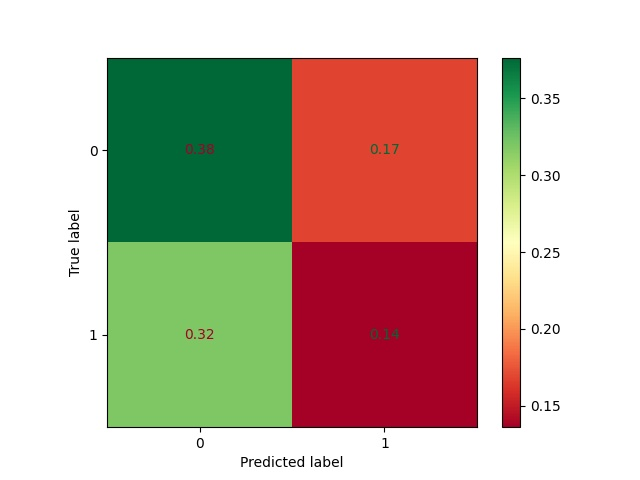
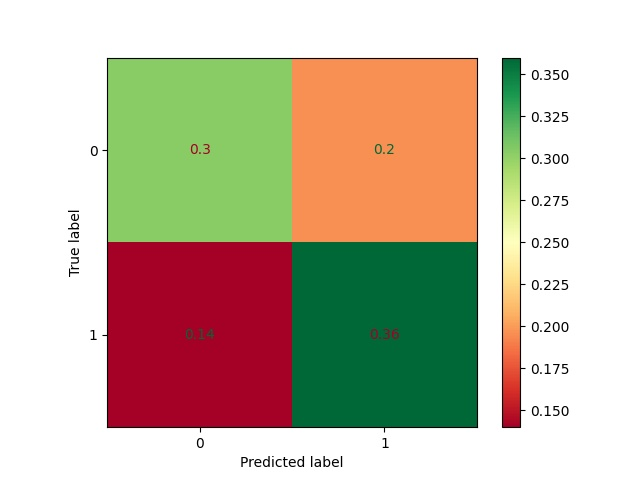
Report commit

diff --git a/detect_resampling.py b/detect_resampling.py
@@ -10,16 +10,28 @@ from sklearn.metrics import confusion_matrix, ConfusionMatrixDisplay
 
 start_time = time.time()
 
-def fake_image_detection(show_point_plot, show_bar_chart, fake_threshold, show_truth_table, produce_half_sample, num_of_images):
-    # how many images to process
-    casia_folder_path = r"C:\Users\chamo\Documents\Physics\Projects\Imaging and Data Processing\Automatic Fake Image Detection"
-    defacto_folder_path = r"C:\Users\chamo\Documents\Physics\Projects\Imaging and Data Processing\Automatic Fake Image Detection\copymove_img\img"
+def fake_image_detection(show_point_plot, show_bar_chart, fake_threshold, show_truth_table, produce_half_sample, num_of_images, casia_folder_path, defacto_folder_path):
+    """ Calculates the probabilty of each image in the CASIA v2 real vs cropped database
+    Args:
+        show_point_plot (Boolan): True or False to show which images where correct or wrong
+        show_bar_chart (Boolan): True or False to show bar chart of how many images were correct or wrong
+        fake_threshold (_type_): _description_
+        show_truth_table (Boolan): True or False to show where images lie on truth table
+        produce_half_sample (Boolan): True or False to tell program to get a random or equal sample of real or fake images
+        num_of_images (int): Number of images per iteration
+        casia_folder_path (str): Absolute path to CASIA folder path
+        defacto_folder_path (str): Absolute path to defacto folder path
+
+    Returns:
+        _type_: _description_
+    """
 
     # max num. of images for real + crop is 14982
     # max num. of images for real + fake is 11429
     # max num. of images for real + copy-move is 13749
     # use 300 images for testing
 
+    # how many images to process
     #num_of_images = 11429
     casia_2_real = glob.glob(casia_folder_path+'\CASIA2\Au\Au*')
     casia_2_fake = glob.glob(casia_folder_path+'\CASIA2\Tp\Tp*')
@@ -44,7 +56,7 @@ def fake_image_detection(show_point_plot, show_bar_chart, fake_threshold, show_t
     good_images = np.array([])
     bad_images = np.array([])
 
-    for i in range(num_of_images - 1):
+    for i in range(num_of_images):
         # go through all images 1 by 1
         if produce_half_sample == True:
             random_i = i
@@ -59,7 +71,7 @@ def fake_image_detection(show_point_plot, show_bar_chart, fake_threshold, show_t
         # fake_threshold of 0.2 was too high to detect fake images (accuracy = 30% for just fake images)
         # make a plot of different thresholds and accurary of program
 
-        fakeness_end_result = detect_resampling(suspect_image=temp_image, show_images=False, debugging=False, fake_threshold=fake_threshold)
+        fakeness_end_result = detect_resampling(suspect_image=temp_image, show_images=False, fake_threshold=fake_threshold)
 
         if '\CASIA2\Au\Au' in str(temp_image):
             fake_image = False
@@ -190,12 +202,14 @@ def fake_image_detection(show_point_plot, show_bar_chart, fake_threshold, show_t
 # fake_threshold = 0.2 is the global maximum
 # confidence = 0.5 is the global maximum
 
-#fake_image_detection(show_point_plot=False, show_bar_chart=True, fake_threshold=0.2, show_truth_table=True, produce_half_sample=False,
-#num_of_images=13749)
 
 # for a single image anaylsis
 #detect_resampling(suspect_image=casia_2_fake[10], show_images=True, debugging=False)
 #detect_resampling(suspect_image=defacto[10], show_images=True, debugging=False)
+
+# for a mutiple image anaylsis
+#fake_image_detection(show_point_plot=False, show_bar_chart=True, fake_threshold=0.2, show_truth_table=True, produce_half_sample=False,
+#num_of_images=13749)
 
 # measure time taken to execute code (uni interpreter is usually faster than uni_2_1)
 end_time = time.time()

diff --git a/test_resampling_accuracy.py b/test_resampling_accuracy.py
@@ -4,37 +4,39 @@ import time
 
 from detect_resampling import fake_image_detection
 
-#fake_threshold = np.arange(0.15, 0.3, 0.005)
-fake_threshold = np.linspace(0.18, 0.23, 200)
-#fake_threshold = 0.2
+def test_accuracy_against_k(min_k, max_k, casia_folder_path, defacto_folder_path):
+    #fake_threshold = np.arange(0.15, 0.3, 0.005)
+    fake_threshold = np.linspace(min_k, max_k, 200)
+    #fake_threshold = 0.2
 
-accuracy = np.array([])
+    accuracy = np.array([])
 
-# test fake_image_detection for varying k values
-for i in range(0, np.size(fake_threshold)):
-    temp_accuracy = fake_image_detection(fake_threshold=fake_threshold[i], num_of_images=300, show_bar_chart=False, show_point_plot=False, show_truth_table=False, produce_half_sample=True)
-    # produce_half_sample = False here because we want to test varying fake_threshold against the same images
-    # accuracy plot can have sharp edges if num_of_images isn't high enough
+    # test fake_image_detection for varying k values
+    for i in range(0, np.size(fake_threshold)):
+        temp_accuracy = fake_image_detection(fake_threshold=fake_threshold[i], num_of_images=300, show_bar_chart=False, show_point_plot=False, show_truth_table=False, produce_half_sample=True, casia_folder_path=casia_folder_path, defacto_folder_path=defacto_folder_path)
+        # produce_half_sample = False here because we want to test varying fake_threshold against the same images
+        # accuracy plot can have sharp edges if num_of_images isn't high enough
 
-    # for 200 k values and 300 images per iteration, program runs through 60,000 images
-    accuracy = np.append(accuracy, temp_accuracy)
-    print('Fake Threshold (k) = {fake_threshold:.3f} done'.format(fake_threshold=fake_threshold[i]))
+        # for 200 k values and 300 images per iteration, program runs through 60,000 images
+        accuracy = np.append(accuracy, temp_accuracy)
+        print('Fake Threshold (k) = {fake_threshold:.3f} done'.format(fake_threshold=fake_threshold[i]))
 
-# plotting infomation
-plt.figure()
-plt.plot(fake_threshold, accuracy * 100, 'r-')
-plt.xlabel('Fake Threshold (k)')
-plt.ylabel('Accuracy (%)')
-plt.savefig(r'figures\accuracy vs fake threshold plot.jpg', dpi=300)
+    # plotting infomation
+    plt.figure()
+    plt.plot(fake_threshold, accuracy * 100, 'r-')
+    plt.xlabel('Fake Threshold (k)')
+    plt.ylabel('Accuracy (%)')
+    plt.savefig(r'figures\accuracy vs fake threshold plot.jpg', dpi=300)
 
-# max accuracy occurs at 0.675585
-# at index 84, 85 and 105
-# k1 = 0.20110552763819095
-# k2 = 0.201356783919598
-# k3 = 0.2063819095477387
+    # max accuracy occurs at 0.675585
+    # at index 84, 85 and 105
+    # k1 = 0.20110552763819095
+    # k2 = 0.201356783919598
+    # k3 = 0.2063819095477387
 
-# check print statement works
-print('Highest accuracy of {accuracy:.4f} occurs at {fake_threshold:.4f}'.format(accuracy=accuracy, fake_threshold=fake_threshold))
-plt.show()
+    #print('Highest accuracy of {accuracy:.4f} occurs at {fake_threshold:.4f}'.format(accuracy=accuracy, fake_threshold=fake_threshold))
+    plt.show()
 
-print('Hello World')
+    return np.max(accuracy)
+
+#test_accuracy_against_k(min_k=0.18, max_k=0.23, casia_folder_path=casia_folder_path, defacto_folder_path=defacto_folder_path)

diff --git a/resampling.py b/resampling.py
@@ -9,7 +9,7 @@ from scipy import ndimage
 
 #start_time = time.time()
 
-def detect_resampling(suspect_image ,show_images, debugging, fake_threshold):
+def detect_resampling(suspect_image ,show_images, fake_threshold):
 
     def get_variance_v2(orginal_image, width, height, test_variance, fake_threshold):
 
@@ -83,12 +83,16 @@ def detect_resampling(suspect_image ,show_images, debugging, fake_threshold):
     #------------------------------------------------------------------------
     #--------------------- Fake Image Calculations ---------------------
     #------------------------------------------------------------------------
-    if debugging == False:
-        orginal_image= plt.imread(suspect_image)
 
-    # fake moose, fake lion, fake lion small, fake lion resampled, real zebra, real zebra resampled, real zebra small, real bird    
-    if debugging == True:
-        orginal_image, image_path = load_image(suspect_image)
+    orginal_image = plt.imread(r'test images\pliot selfie 2.jpg')
+    image_path = r'test images\pliot selfie 2.jpg'
+
+
+    orginal_image= plt.imread(suspect_image)
+
+    # for testing
+    # orginal_image= plt.imread(orginal_image)
+
 
     # make greyscale image
     r, g, b = orginal_image[:,:,0], orginal_image[:,:,1], orginal_image[:,:,2]
@@ -149,7 +153,7 @@ def detect_resampling(suspect_image ,show_images, debugging, fake_threshold):
     return fakeness_end_result
 
 # resampling example real
-#detect_resampling(suspect_image='dalle 2 real', show_images=True, debugging=True, fake_threshold=0.2)
+#detect_resampling(suspect_image='dalle 2 real', show_images=True, fake_threshold=0.2)
 
 # measure time taken to execute code (uni interpreter is usually faster than uni_2_1)
 

diff --git a/input.py b/input.py
@@ -1,0 +1,21 @@
+import numpy as np
+import matplotlib.pyplot as plt
+import time
+
+from detect_resampling import fake_image_detection
+from resampling import detect_resampling
+from test_resampling_accuracy import test_accuracy_against_k
+
+# add your absolute path
+casia_folder_path = r"C:\Users\chamo\Documents\Physics\Projects\Imaging and Data Processing\Automatic Fake Image Detection"
+defacto_folder_path = r"C:\Users\chamo\Documents\Physics\Projects\Imaging and Data Processing\Automatic Fake Image Detection\copymove_img\img"
+
+# for single image
+#detect_resampling(suspect_image='dalle 2 real', show_images=True, fake_threshold=0.2)
+
+# for mutiple images
+#fake_image_detection(casia_folder_path=casia_folder_path, defacto_folder_path=defacto_folder_path, fake_threshold=0.2, show_bar_chart=True, show_point_plot=True,
+#show_truth_table=True, num_of_images=300, produce_half_sample=True)
+
+# for testing accuracy vs k
+test_accuracy_against_k(min_k=0.18, max_k=0.23, casia_folder_path=casia_folder_path, defacto_folder_path=defacto_folder_path)

diff --git a/README.md b/README.md
@@ -1,2 +1,18 @@
 # automatic_fake_image_detection_project
- IDP project for 2 weeks
+
+# Before running program, you will need to download the database used in this project. #
+
+There are 3 main databases:
+ - CASIA v2
+ - CASIA v2 Cropped
+ - Defacto-copymove
+
+These databases can be downloaded from:
+https://github.com/ChamodKalupahana/automatic_fake_image_detection_project
+
+Download these files and change the CASIA v2 folder path and defacto_folder path in input.py
+
+# IMPORTANT # 
+these datasets are very large so it downloading may take a long time
+
+
